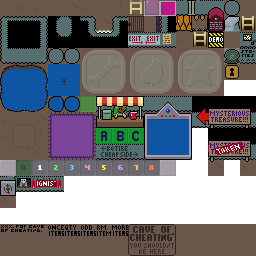
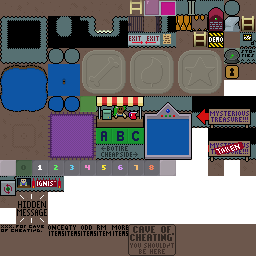
couple hidden messages, and dpad to pause telescope

Changed region(s): [[0.0625, 0.75, 0.1875, 0.875]]

diff --git a/src/game/hero/hero_item.c b/src/game/hero/hero_item.c
@@ -825,7 +825,7 @@ static int barrelhat_begin(struct sprite *sprite) {
 /* Telescope.
  */
  
-#define TELESCOPE_AWAY_SPEED 250.0 /* px/s (NB not meters) */
+#define TELESCOPE_AWAY_SPEED 20.0 /* m/s */
  
 static int telescope_begin(struct sprite *sprite) {
   SPRITE->itemid_in_progress=NS_itemid_telescope;
@@ -835,12 +835,16 @@ static int telescope_begin(struct sprite *sprite) {
 
 static void telescope_update(struct sprite *sprite,double elapsed) {
   if (!(g.input[0]&EGG_BTN_SOUTH)) {
+    // SOUTH released -- end the activity.
     g.telescoping=0;
     g.camera.teledx=0.0;
     g.camera.teledy=0.0;
     g.camera.cut=1;
     SPRITE->itemid_in_progress=0;
+  } else if (g.input[0]&(EGG_BTN_LEFT|EGG_BTN_RIGHT|EGG_BTN_UP|EGG_BTN_DOWN)) {
+    // Anything on dpad held -- suspend motion.
   } else {
+    // Normal cases -- move away.
     g.camera.teledx+=TELESCOPE_AWAY_SPEED*elapsed*SPRITE->facedx;
     g.camera.teledy+=TELESCOPE_AWAY_SPEED*elapsed*SPRITE->facedy;
   }

diff --git a/README.md b/README.md
@@ -53,6 +53,7 @@ Requires [Egg](https://github.com/aksommerville/egg2) to build.
 - [ ] Poker at the casino. UI in place and activity ready to write.
 - [ ] Blackjack at the casino. UI in place and activity ready to write.
 - [ ] Broom Races story: I really dislike the picture for the second (?) frame: "Some witches race on their brooms".
+- - While you're in there: We can add Grandpa's Puzzle to the Purse Upgrades story now.
 - [ ] Some fireworks when an animal gets captured.
 - [ ] Revise `race.c:race_render_overlay()` re multiplayer. Show both players' lap and time, and don't print it in the middle at the end.
 - [ ] BEFORE GDEX: Make the meadow zoo include all local rsprite. Add to the zoo or remove from rsprite, whatever, just make them match.
@@ -62,6 +63,7 @@ Requires [Egg](https://github.com/aksommerville/egg2) to build.
 - [x] If you collect the last jigpiece in a non-story broom race, does the cutscene play? Does the flag get set? And do we want the cutscene to play? This would be extremely unusual, but do check.
 - - The cutscene does play and the flag gets set as expected. It's weird but not too jarring, I think. Keep as is.
 - [ ] Some moving or at least animated things where you get the stopwatch, so you can see it work.
+- [ ] Telescope doesn't work in maps with camera-override.
 
 - Challenges for Ice Palace and other bonus zones. Underworld. Back of the temple? Goblins' cave?
 - - We can really cut loose with these and make them ridiculously hard, since they'll never be mandatory.
@@ -121,6 +123,7 @@ Requires [Egg](https://github.com/aksommerville/egg2) to build.
 - - [ ] Inconvenience Store
 - [ ] Underground.
 - - [ ] Lots of monsters everywhere, and we can put really hard ones down here.
+- - [x] There's a whole lot of wall near the Cheapside-Botire passage. Can we squeeze a Hidden Message in there?
 
 - Battle repairs.
 - [ ] bobsleigh: I crossed the finish line once and it just didn't register.
